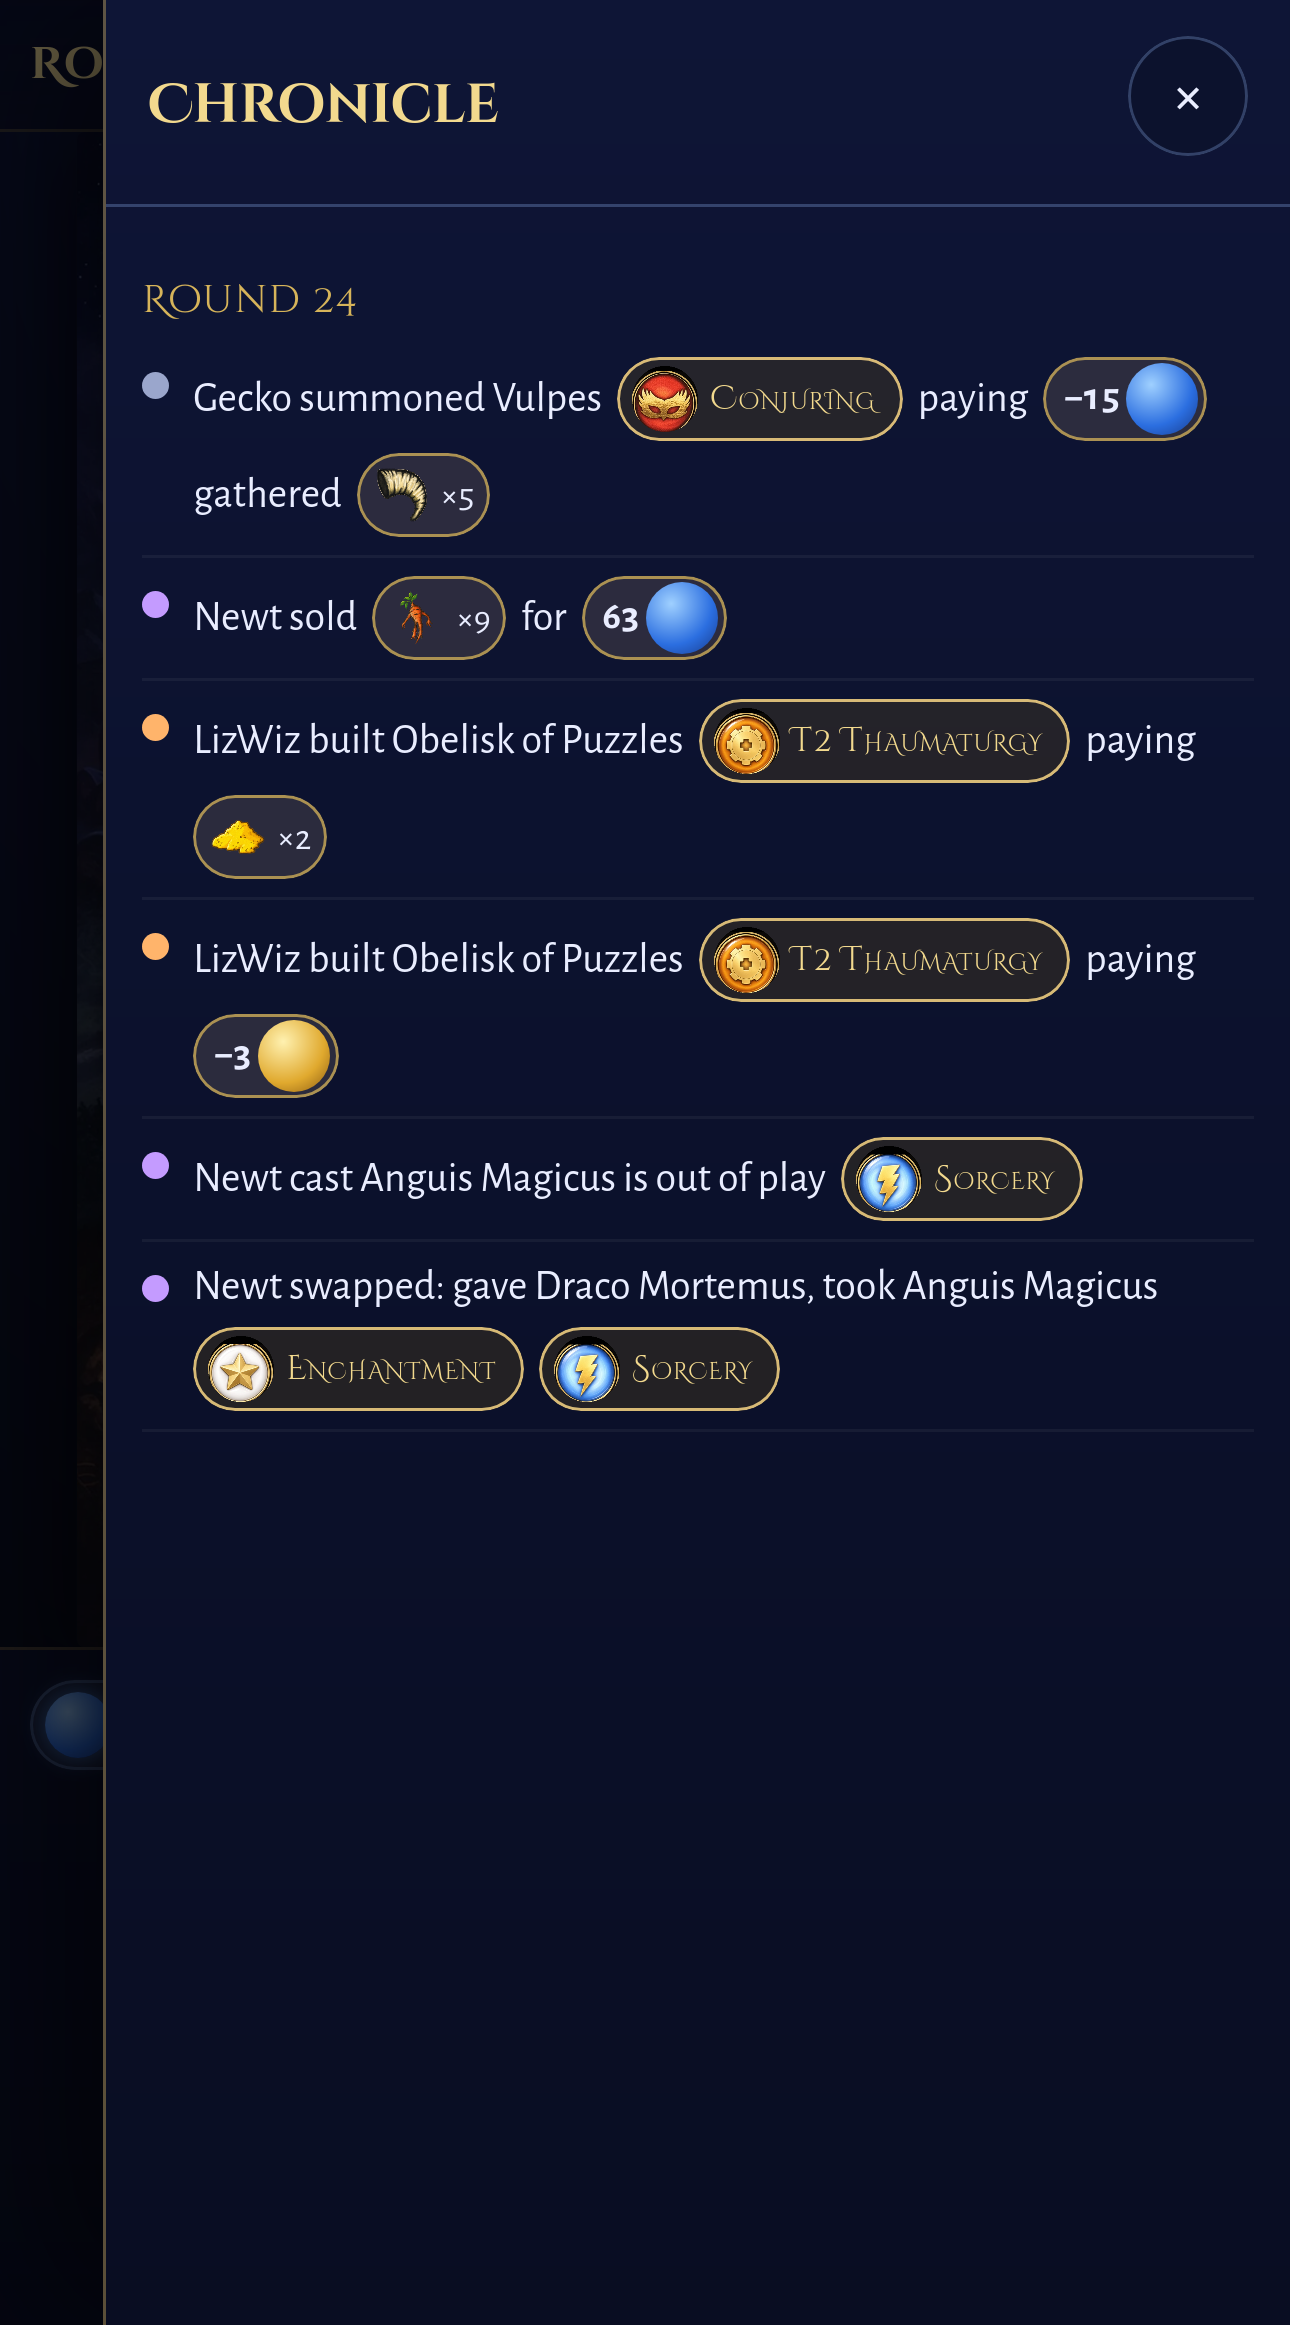
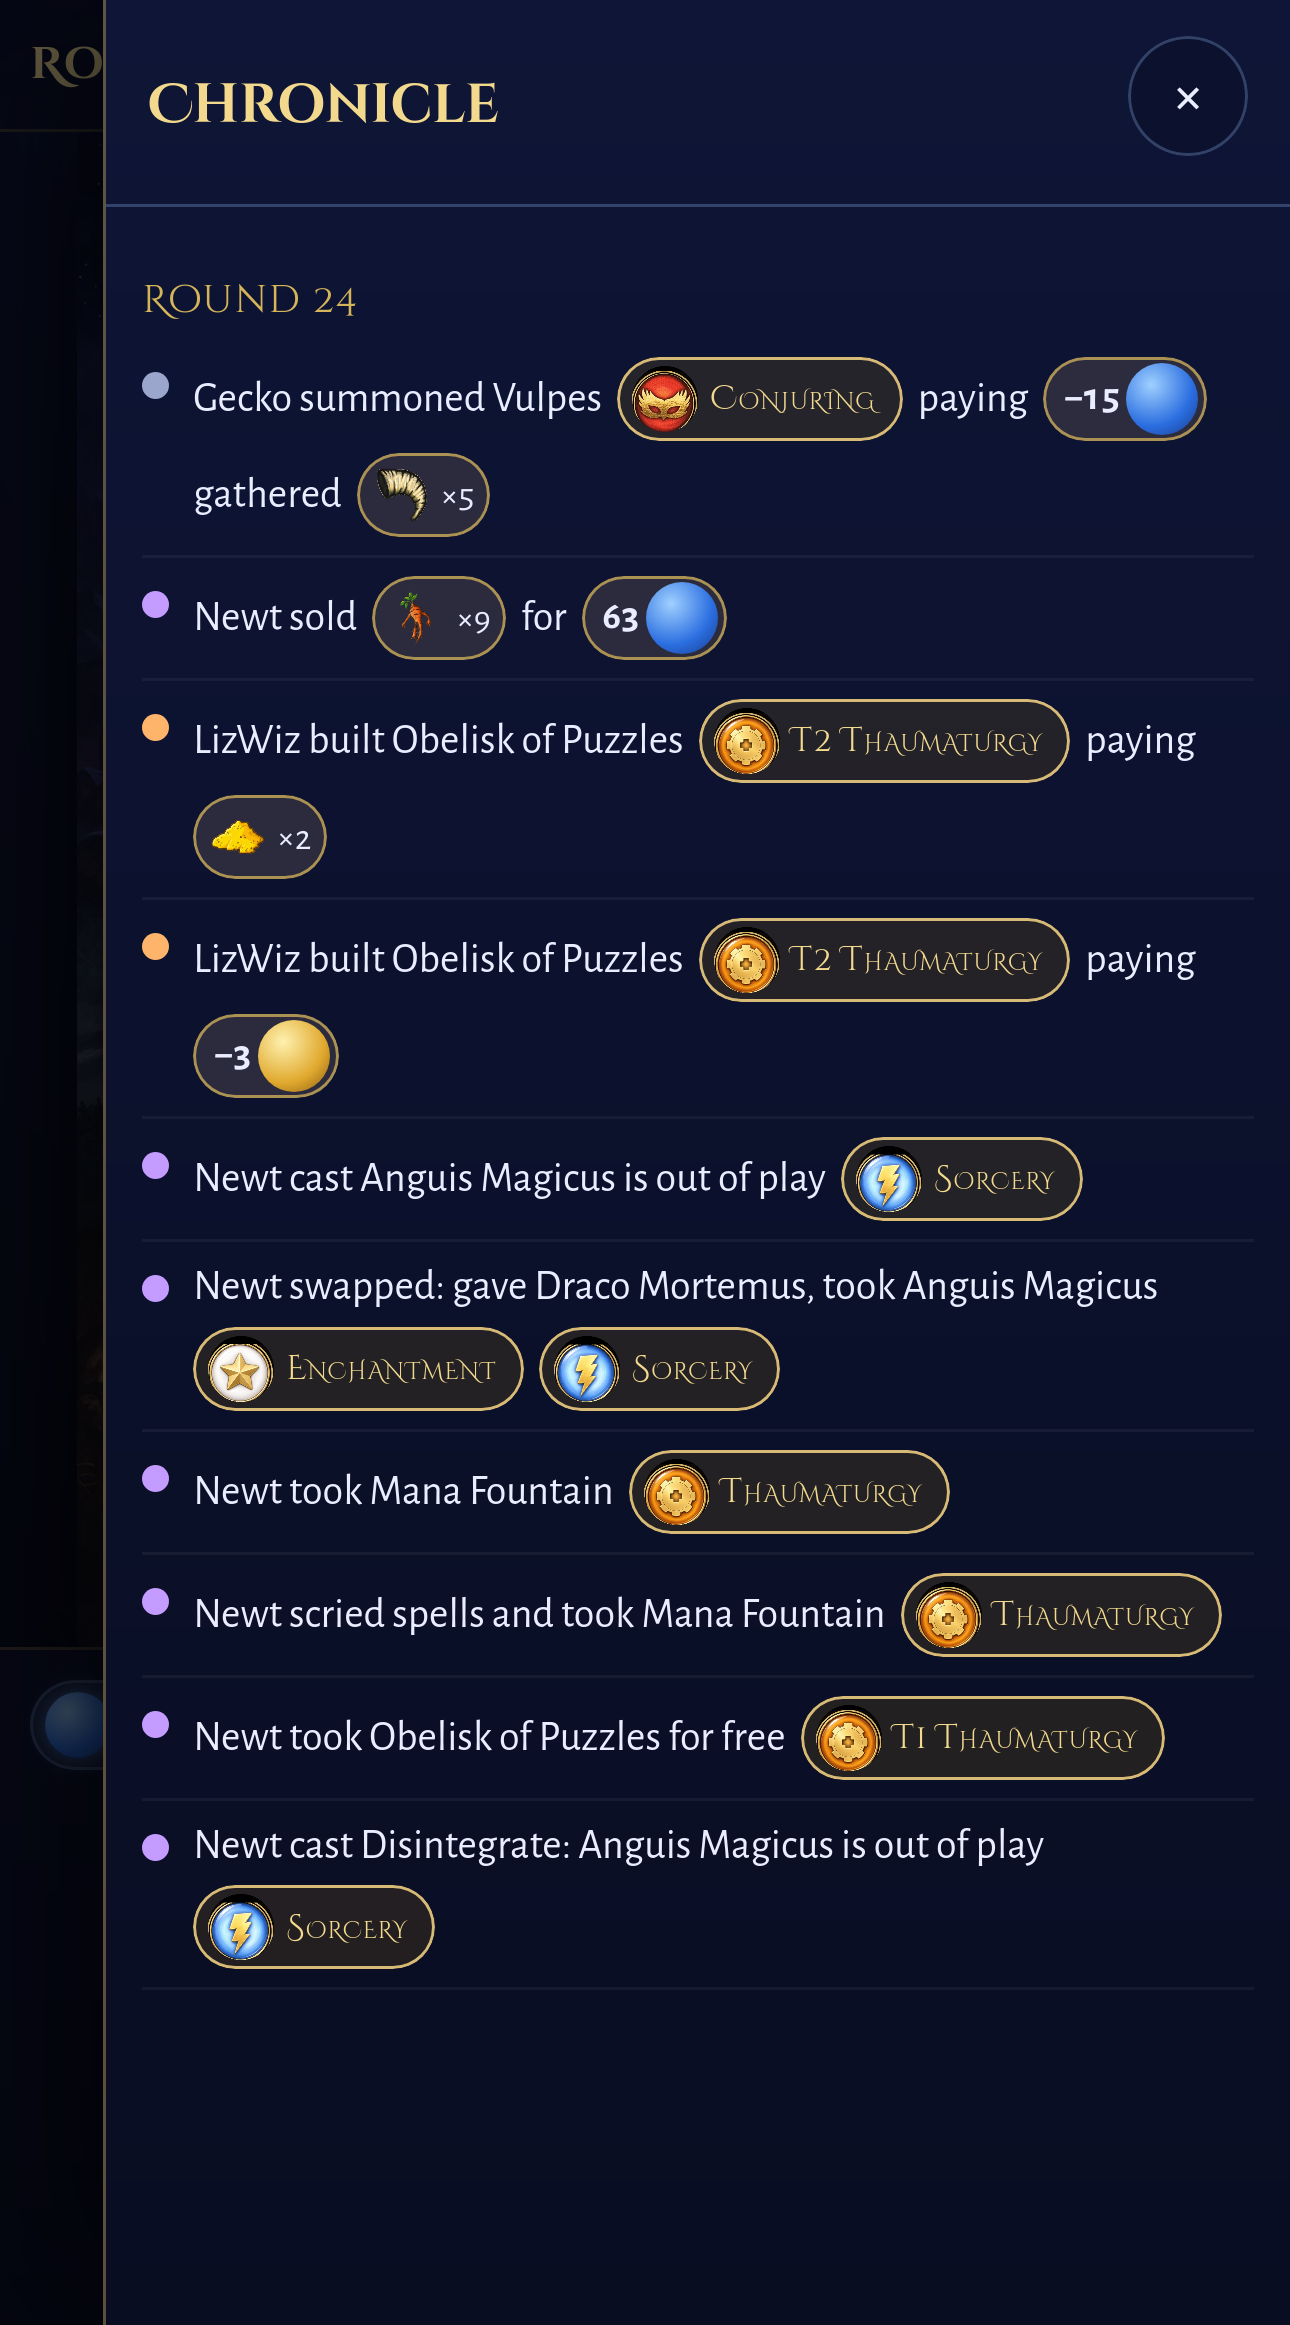
Replace remaining Chronicle school prose (#77)

diff --git a/tests/e2e/chronicle-reagent-icons.spec.js b/tests/e2e/chronicle-reagent-icons.spec.js
@@ -104,12 +104,28 @@ test('Chronicle action lines keep schools and values in the approved chip order'
           text: 'Newt swapped: gave Draco Mortemus (Enchantment), took Anguis Magicus (Sorcery)',
           schools: ['Enchantment', 'Sorcery'],
         },
+        {
+          r: 24, who: 'Newt', act: 'new_research',
+          text: 'Newt took Mana Fountain (Thaumaturgy)', school: 'Thaumaturgy',
+        },
+        {
+          r: 24, who: 'Newt', act: 'scry_spells',
+          text: 'Newt scried spells and took Mana Fountain (Thaumaturgy)', school: 'Thaumaturgy',
+        },
+        {
+          r: 24, who: 'Newt', act: 'creation',
+          text: 'Newt took Obelisk of Puzzles T1 (Thaumaturgy) for free', school: 'Thaumaturgy', tier: 1,
+        },
+        {
+          r: 24, who: 'Newt', act: 'disintegrate',
+          text: 'Newt cast Disintegrate: Anguis Magicus (Sorcery) is out of play', school: 'Sorcery',
+        },
       ],
     });
     await window.ui.openLog(g);
   });
   const items = page.getByTestId('log-item');
-  await expect(items).toHaveCount(6);
+  await expect(items).toHaveCount(10);
   await expect(items.nth(0)).toContainText('Gecko summoned Vulpes');
   await expect(items.nth(0)).toContainText('gathered');
   await expect(items.nth(0).locator('.log-reagent-count')).toHaveText('×5');
@@ -128,5 +144,9 @@ test('Chronicle action lines keep schools and values in the approved chip order'
   await expect(items.nth(5)).not.toContainText('(Enchantment)');
   await expect(items.nth(5)).not.toContainText('(Sorcery)');
   await expect(items.nth(5).locator('.log-school-chip')).toHaveCount(2);
+  for (const index of [6, 7, 8, 9]) {
+    await expect(items.nth(index)).not.toContainText(/\([A-Z][^)]+\)/);
+    await expect(items.nth(index).locator('.log-school-chip')).toHaveCount(1);
+  }
   await page.getByTestId('log').screenshot({ path: 'docs/screenshots/chronicle-lines-430x775.png' });
 });

diff --git a/engine/web/test_log_format.py b/engine/web/test_log_format.py
@@ -107,6 +107,22 @@ def test_public_log_removes_gold_word_and_exposes_swap_schools():
     assert result[1]['schools'] == ['Enchantment', 'Sorcery']
 
 
+def test_public_log_derives_schools_for_taken_scryed_created_and_destroyed_cards():
+    entries = [
+        {'act': 'new_research', 'who': 'Newt', 'took': 'Spell_Mana_Fountain.jpg'},
+        {'act': 'scry_spells', 'who': 'Newt', 'took': 'Spell_Mana_Fountain.jpg'},
+        {'act': 'creation', 'who': 'Newt', 'card': 'Tower_T1_Ivory_Spire.jpg'},
+        {'act': 'disintegrate', 'who': 'Newt', 'card': 'Wizard_Anguis_Magicus.jpg'},
+    ]
+    old_public_view = lw_web.AI.public_view
+    lw_web.AI.public_view = lambda state, viewer: {'meta': {'log': entries}}
+    try:
+        result = lw_web.public_log({}, 'Newt')
+    finally:
+        lw_web.AI.public_view = old_public_view
+    assert [entry.get('school') for entry in result] == ['Thaumaturgy', 'Thaumaturgy', 'Thaumaturgy', 'Sorcery']
+
+
 def test_chronicle_values_use_signed_numeric_facts():
     assert lw_web.chronicle_values({'act': 'auction', 'price': 8}) == [{'kind': 'mana', 'value': -8}]
     assert lw_web.chronicle_values({'act': 'convert', 'gain': 32}) == [{'kind': 'mana', 'value': 32}]

diff --git a/engine/web/lw_web.py b/engine/web/lw_web.py
@@ -537,7 +537,7 @@ def public_log(s, viewer):
         if a == 'summon' and e.get('use'):
             item['use'] = e['use']
         item['cards'] = log_cards(e)
-        school_card = e.get('tower') or e.get('spell') or e.get('familiar')
+        school_card = e.get('tower') or e.get('spell') or e.get('familiar') or e.get('took') or e.get('card')
         if a == 'auction' and e.get('item'):
             school_card = 'Wizard_' + e['item'] + '.jpg'
         school = CD.school(school_card) if school_card else hardcoded_schools.get(str(a).lower())

diff --git a/REGRESSION_CHECKLIST.md b/REGRESSION_CHECKLIST.md
@@ -28,5 +28,6 @@ Run the relevant Playwright project on both Chromium and `webkit-iphone` where n
 | Approved crisp chips on action surfaces | Spell/build/New Research costs, plain AI entries, and structured gather/sell/auction banners use clean number-first mana/gold, grouped reagent counts, and approved school chips without changing familiar swipe/card art. | `tests/e2e/banner-log-format.spec.js`, `tests/e2e/board-spell-swipe.spec.js`, `tests/e2e/summon-chooser-swipe.spec.js` |
 | Chronicle gold builds and cast outcomes | Gold-paid builds show the school chip before “paying” and only the negative gold chip; cast/swap outcome prose has inline school chips instead of parenthesized school text. | `tests/e2e/chronicle-reagent-icons.spec.js`, `engine/web/test_log_format.py` |
 | Spell meta and AI banner v4 polish | Expanded spell/Rise metadata uses the Chronicle school pill and grouped cost chips; gather chips are icon/count-only; sell banners use icon/count chips, an arrowed mana chip, and one caption line; malformed pending banner data does not crash. | `tests/e2e/board-spell-swipe.spec.js`, `tests/e2e/banner-log-format.spec.js` |
+| Chronicle school prose cleanup | New Research, scry-took, destroy-out-of-play, and Creation lines replace parenthesized schools with inline crest/tier school chips; expanded card and cast-panel titles remain unchanged. | `tests/e2e/chronicle-reagent-icons.spec.js`, `engine/web/test_log_format.py` |
 
 For every carousel check, also verify X close, scrim close, vertical sheet scrolling, and that tapping an action tile performs the real state change.
